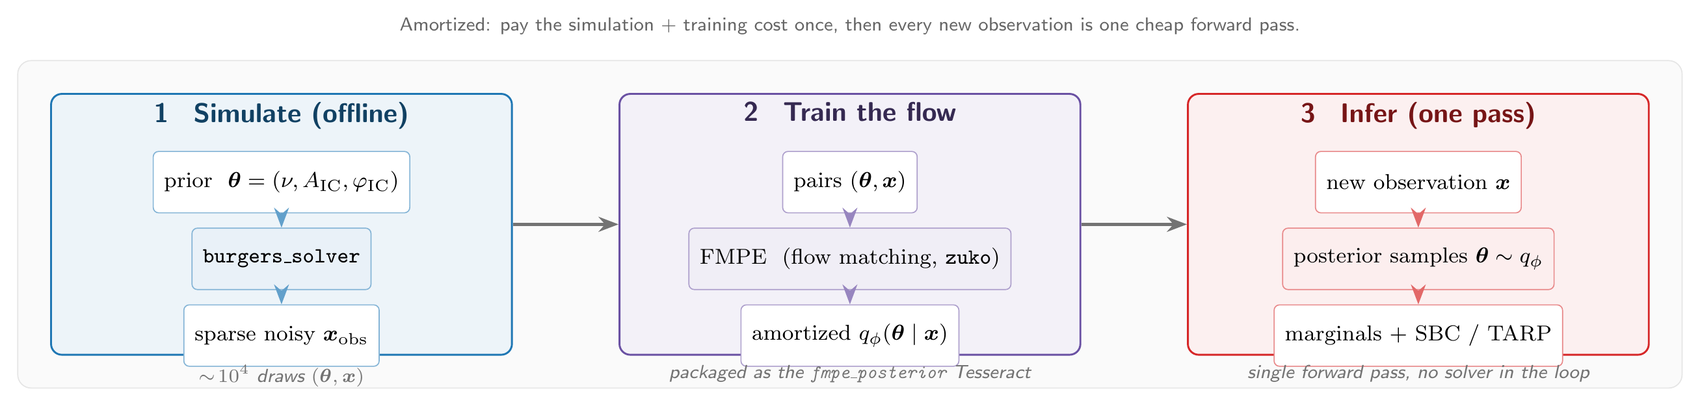
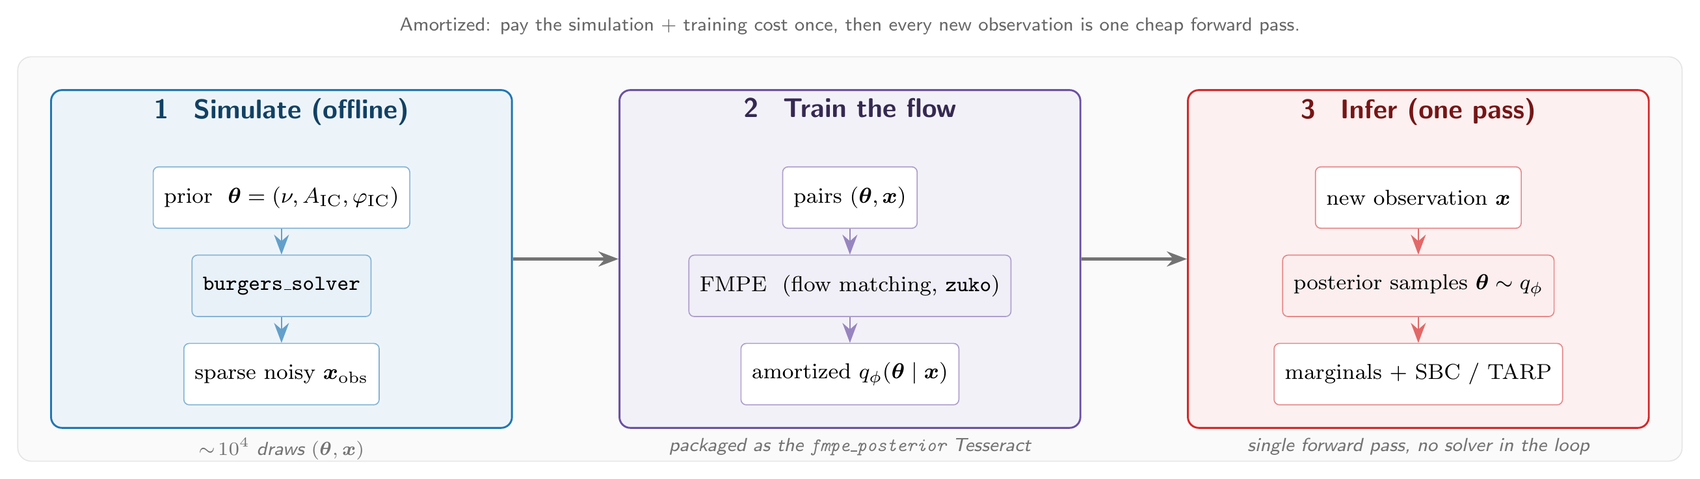
docs: fix SBI-workflow pill overflow (taller stage boxes)

diff --git a/docs/sbi_workflow.tex b/docs/sbi_workflow.tex
@@ -22,7 +22,7 @@
   font=\sffamily,
   >={Stealth[length=2.6mm]},
   stage/.style={rounded corners=4pt, line width=0.7pt, align=center,
-                minimum width=60mm, minimum height=34mm, inner sep=7pt},
+                minimum width=60mm, minimum height=44mm, inner sep=7pt},
   pill/.style={rounded corners=2pt, draw=black!35, fill=white,
                align=center, font=\footnotesize, inner sep=4pt,
                minimum height=8mm},
@@ -35,11 +35,11 @@
 % ====================== Stage 1: simulate (offline) ====================
 \node[stage, fill=cSim!8, draw=cSim] (s1) at (0,0) {};
 \node[head, text=cSim!55!black, anchor=north] at (s1.north) {1 \, Simulate (offline)};
-\node[pill, draw=cSim!55] (prior) at (0,0.55)
+\node[pill, draw=cSim!55] (prior) at (0,0.8)
   {prior \ $\bm{\theta}=(\nu, A_{\mathrm{IC}}, \varphi_{\mathrm{IC}})$};
-\node[pill, draw=cSim!55, fill=cSim!10] (solv) at (0,-0.45)
+\node[pill, draw=cSim!55, fill=cSim!10] (solv) at (0,-0.35)
   {\texttt{burgers\_solver}};
-\node[pill, draw=cSim!55] (xobs) at (0,-1.45)
+\node[pill, draw=cSim!55] (xobs) at (0,-1.5)
   {sparse noisy $\bm{x}_{\mathrm{obs}}$};
 \draw[small, draw=cSim!70] (prior) -- (solv);
 \draw[small, draw=cSim!70] (solv) -- (xobs);
@@ -48,11 +48,11 @@
 % ====================== Stage 2: train the flow ========================
 \node[stage, fill=cTrain!8, draw=cTrain] (s2) at (7.4,0) {};
 \node[head, text=cTrain!50!black, anchor=north] at (s2.north) {2 \, Train the flow};
-\node[pill, draw=cTrain!55] (pairs) at (7.4,0.55)
+\node[pill, draw=cTrain!55] (pairs) at (7.4,0.8)
   {pairs $(\bm{\theta},\bm{x})$};
-\node[pill, draw=cTrain!55, fill=cTrain!10] (fmpe) at (7.4,-0.45)
+\node[pill, draw=cTrain!55, fill=cTrain!10] (fmpe) at (7.4,-0.35)
   {FMPE \ (flow matching, \texttt{zuko})};
-\node[pill, draw=cTrain!55] (qnet) at (7.4,-1.45)
+\node[pill, draw=cTrain!55] (qnet) at (7.4,-1.5)
   {amortized $q_\phi(\bm{\theta}\mid\bm{x})$};
 \draw[small, draw=cTrain!70] (pairs) -- (fmpe);
 \draw[small, draw=cTrain!70] (fmpe) -- (qnet);
@@ -61,11 +61,11 @@
 % ====================== Stage 3: amortized inference ===================
 \node[stage, fill=cInfer!7, draw=cInfer] (s3) at (14.8,0) {};
 \node[head, text=cInfer!55!black, anchor=north] at (s3.north) {3 \, Infer (one pass)};
-\node[pill, draw=cInfer!55] (newx) at (14.8,0.55)
+\node[pill, draw=cInfer!55] (newx) at (14.8,0.8)
   {new observation $\bm{x}$};
-\node[pill, draw=cInfer!55, fill=cInfer!8] (post) at (14.8,-0.45)
+\node[pill, draw=cInfer!55, fill=cInfer!8] (post) at (14.8,-0.35)
   {posterior samples $\bm{\theta}\sim q_\phi$};
-\node[pill, draw=cInfer!55] (diag) at (14.8,-1.45)
+\node[pill, draw=cInfer!55] (diag) at (14.8,-1.5)
   {marginals $+$ SBC / TARP};
 \draw[small, draw=cInfer!70] (newx) -- (post);
 \draw[small, draw=cInfer!70] (post) -- (diag);
@@ -76,7 +76,7 @@
 \draw[big] (s2.east) -- (s3.west);
 
 % banner
-\node[note, text=black!60, anchor=south] at (7.4,2.35)
+\node[note, text=black!60, anchor=south] at (7.4,2.8)
   {\emph{Amortized: pay the simulation + training cost once, then every new
    observation is one cheap forward pass.}};
 
